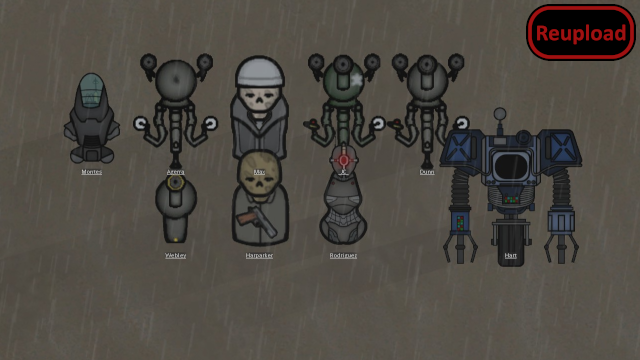
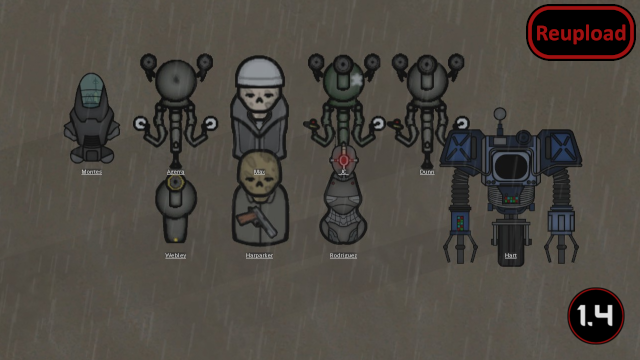
Last update, added end-of-life message

Changed region(s): [[0.875, 0.7944, 1.0, 0.9778]]

diff --git a/README.md b/README.md
@@ -16,7 +16,7 @@ Regarding texture issues in 1.3:
 "Sentrybot texture caching bug: You have to disable "texture compression" and also in the Mod Options for Vanilla Framework Expanded ENABLE "disable texture caching"
 Info by Jedia Kyrol
 
-![Image](https://i.imgur.com/pufA0kM.png)
+![Image](https://i.imgur.com/KFjAmff.png)
 
 	
 https://steamcommunity.com/sharedfiles/filedetails/?id=2288125657]![Image](https://i.imgur.com/kNldlMg.png)
@@ -141,12 +141,13 @@ ideas and suggestions would also be welcome!
 
 -  See if the the error persists if you just have this mod and its requirements active.
 -  If not, try adding your other mods until it happens again.
--  Post your error-log using https://steamcommunity.com/workshop/filedetails/?id=818773962]HugsLib and command Ctrl+F12
+-  Post your error-log using https://steamcommunity.com/workshop/filedetails/?id=818773962]HugsLib or the standalone https://steamcommunity.com/sharedfiles/filedetails/?id=2873415404]Uploader and command Ctrl+F12
 -  For best support, please use the Discord-channel for error-reporting.
 -  Do not report errors by making a discussion-thread, I get no notification of that.
 -  If you have the solution for a problem, please post it to the GitHub repository.
+-  Use https://github.com/RimSort/RimSort/releases/latest]RimSort to sort your mods
 
 
 
+https://steamcommunity.com/sharedfiles/filedetails/changelog/2347136687]![Image](https://img.shields.io/github/v/release/emipa606/FalloutRacesTheRobotsPack?label=latest%20version&style=plastic&color=9f1111&labelColor=black)
 
-https://steamcommunity.com/sharedfiles/filedetails/changelog/2347136687]Last updated 2023-01-09